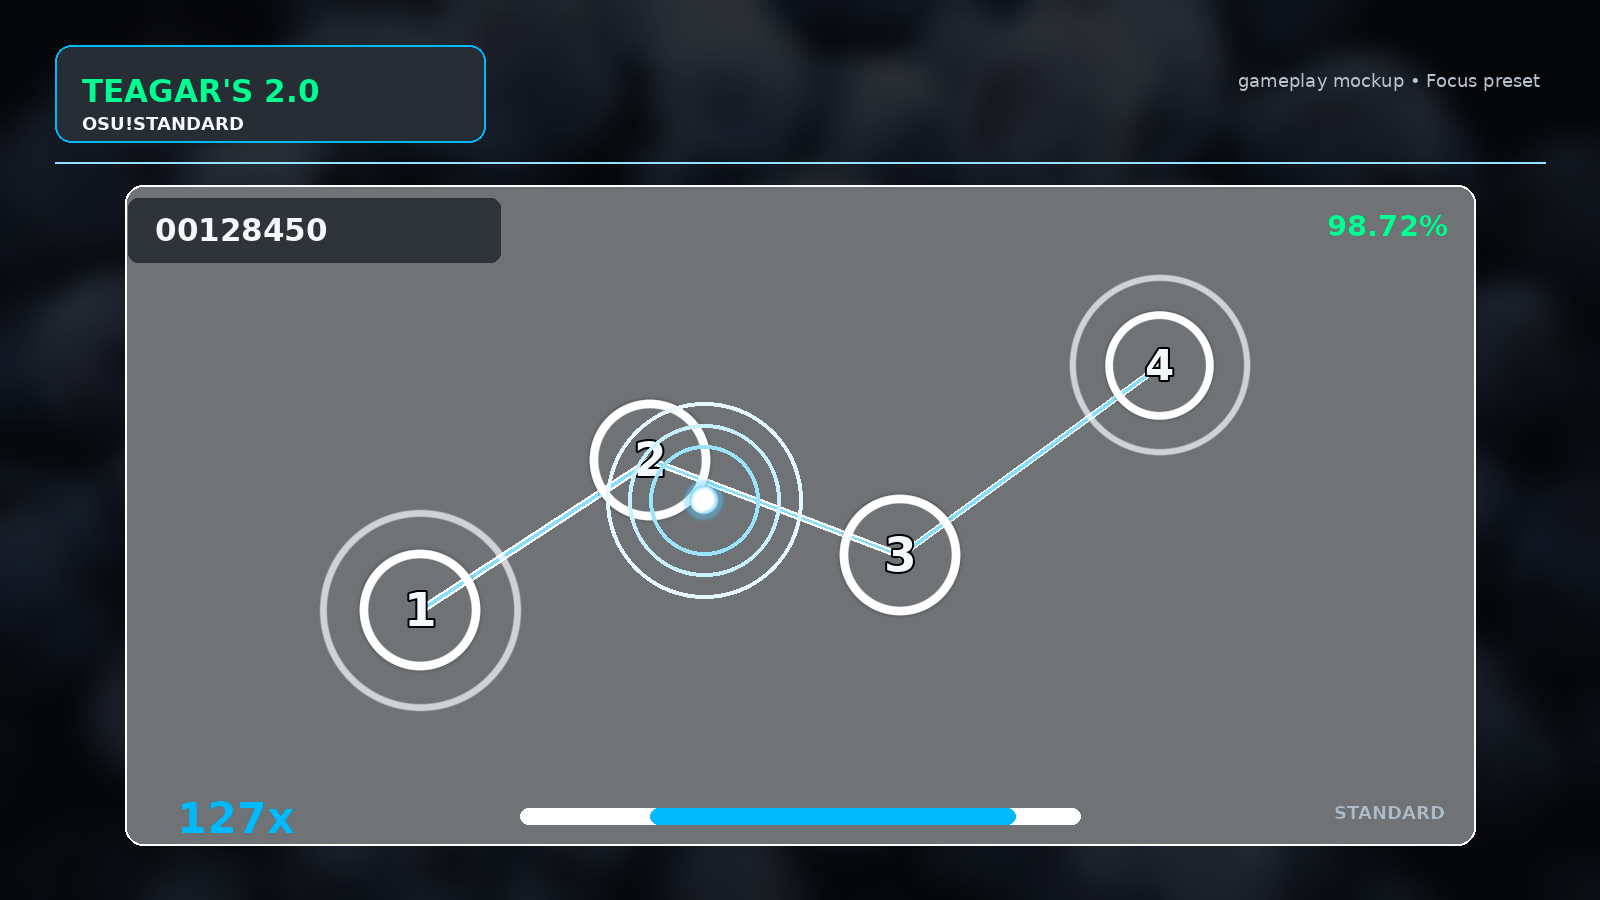
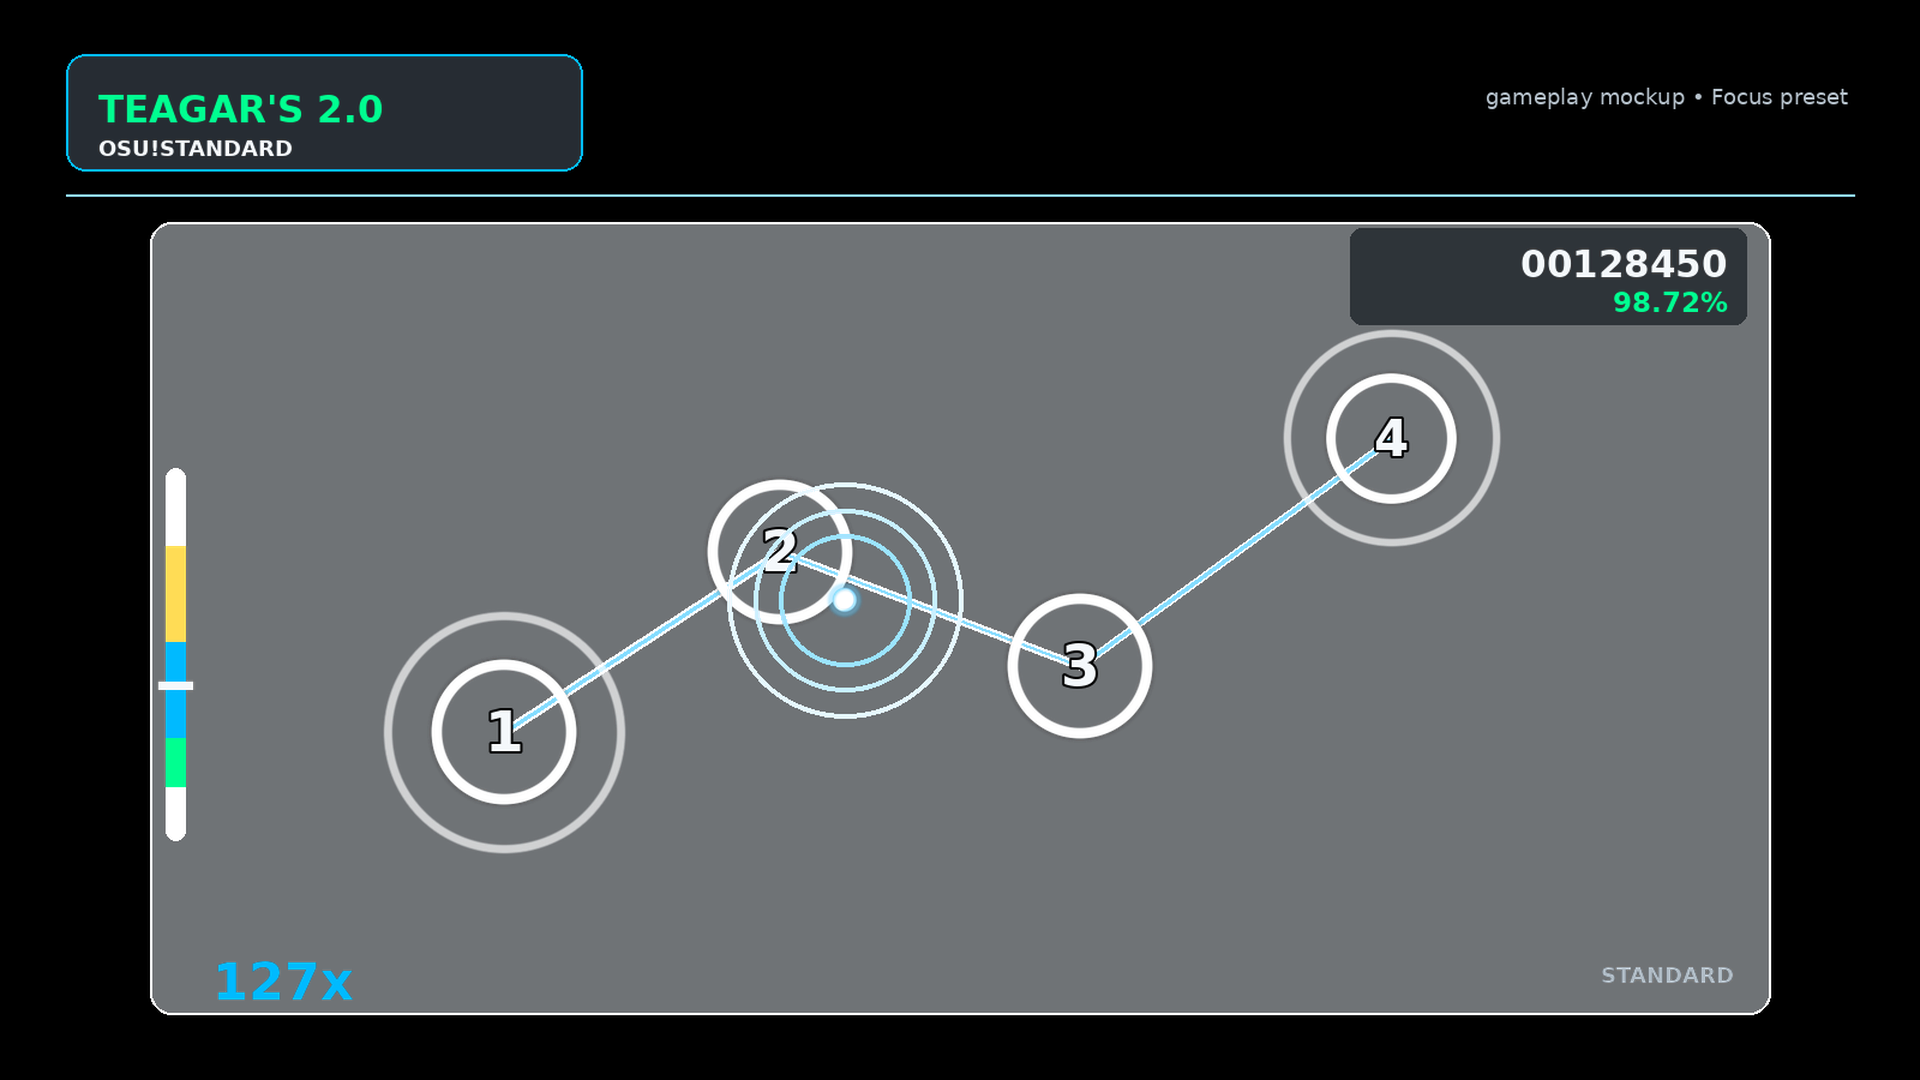
Match showcase to current osu settings

diff --git a/tools/generate_previews.py b/tools/generate_previews.py
@@ -8,6 +8,7 @@ from PIL import Image, ImageDraw, ImageEnhance, ImageFilter, ImageFont
 ROOT = Path(__file__).resolve().parents[1]
 OUT = ROOT / "docs" / "showcase"
 SIZE = (1600, 900)
+OUTPUT_SIZE = (1920, 1080)
 CYAN = "#00baff"
 GREEN = "#00ff90"
 INK = "#071018"
@@ -49,6 +50,11 @@ def paste_center(canvas, image, center):
     canvas.alpha_composite(
         image, (round(center[0] - image.width / 2), round(center[1] - image.height / 2))
     )
+
+
+def save_preview(canvas, filename, **kwargs):
+    """Export at the 1920x1080 resolution used by the current osu! setup."""
+    canvas.resize(OUTPUT_SIZE, Image.Resampling.LANCZOS).save(OUT / filename, **kwargs)
 
 
 def label(draw, text, xy, size, fill=WHITE, anchor="la", bold=False, stroke=0):
@@ -98,7 +104,7 @@ def menu_preview():
     cursor = asset("cursor@2x.png", (94, 94))
     paste_center(canvas, cursor, (1345, 350))
     label(draw, "CUSTOM SKIN", (1515, 820), 20, GREEN, anchor="ra", bold=True)
-    canvas.save(OUT / "menu.png", optimize=True)
+    save_preview(canvas, "menu.png", optimize=True)
 
 
 def hit_object(canvas, center, number, scale=1.0, approach=True):
@@ -120,7 +126,8 @@ def hit_object(canvas, center, number, scale=1.0, approach=True):
 
 
 def gameplay_preview():
-    canvas = background(12, 0.26)
+    # Current gameplay setting uses 100% background dim and no blur.
+    canvas = Image.new("RGBA", SIZE, (0, 0, 0, 255))
     draw = ImageDraw.Draw(canvas)
     draw.rounded_rectangle((125, 185, 1475, 845), 18, fill=(1, 8, 14, 145), outline=(255, 255, 255, 28), width=2)
     header(canvas, "osu!standard", "gameplay mockup • Focus preset")
@@ -132,34 +139,43 @@ def gameplay_preview():
     for i, point in enumerate(points, 1):
         hit_object(canvas, point, i, 1.0 if i < 4 else 0.9, approach=i in (1, 4))
 
-    cursor = asset("cursor@2x.png", (104, 104))
+    # Gameplay cursor size is 0.69 in the current local configuration.
+    cursor = asset("cursor@2x.png", (72, 72))
     paste_center(canvas, cursor, (704, 500))
     for radius, alpha in [(55, 100), (76, 55), (98, 25)]:
         draw.ellipse((704-radius, 500-radius, 704+radius, 500+radius), outline=(0, 186, 255, alpha), width=4)
 
-    draw.rounded_rectangle((128, 198, 500, 262), 10, fill=(1, 8, 14, 210))
-    label(draw, "00128450", (155, 230), 31, WHITE, anchor="lm", bold=True)
-    label(draw, "98.72%", (1448, 226), 29, GREEN, anchor="rm", bold=True)
+    draw.rounded_rectangle((1125, 190, 1455, 270), 10, fill=(1, 8, 14, 210))
+    label(draw, "00128450", (1440, 220), 31, WHITE, anchor="rm", bold=True)
+    label(draw, "98.72%", (1440, 252), 23, GREEN, anchor="rm", bold=True)
     label(draw, "127x", (177, 793), 43, CYAN, bold=True)
-    draw.rounded_rectangle((520, 808, 1080, 824), 8, fill=(255, 255, 255, 40))
-    draw.rounded_rectangle((650, 808, 1015, 824), 8, fill=CYAN)
+    # The exported HUD places the hit-error meter vertically at centre-left.
+    draw.rounded_rectangle((138, 390, 154, 700), 8, fill=(255, 255, 255, 40))
+    draw.rectangle((138, 455, 154, 535), fill="#ffdc55")
+    draw.rectangle((138, 535, 154, 615), fill=CYAN)
+    draw.rectangle((138, 615, 154, 655), fill=GREEN)
+    draw.rectangle((132, 568, 160, 574), fill=WHITE)
     label(draw, "STANDARD", (1445, 802), 18, "#aebac4", anchor="ra", bold=True)
-    canvas.save(OUT / "gameplay-standard.png", optimize=True)
+    save_preview(canvas, "gameplay-standard.png", optimize=True)
 
 
 def mania_preview():
-    canvas = background(12, 0.23)
+    # Current gameplay setting uses 100% background dim and no blur.
+    canvas = Image.new("RGBA", SIZE, (0, 0, 0, 255))
     draw = ImageDraw.Draw(canvas)
     header(canvas, "osu!mania", "4K gameplay mockup • configured for 1–7 keys")
 
-    left, top, right, bottom = 470, 178, 1130, 845
+    # Four 52px legacy columns scale to roughly 468px at 1080p.
+    left, top, right, bottom = 605, 168, 995, 852
     draw.rectangle((left, top, right, bottom), fill=(0, 0, 0, 215), outline=CYAN, width=2)
     lane_width = (right - left) // 4
     for i in range(1, 4):
         x = left + i * lane_width
         draw.line((x, top, x, bottom), fill=(255, 255, 255, 40), width=2)
-    draw.rectangle((left, 785, right, 795), fill=GREEN)
-    draw.rectangle((left, 795, right, bottom), fill=(0, 186, 255, 45))
+    stage = asset("mania-stage-bottom.png").resize((right - left, 54), Image.Resampling.LANCZOS)
+    canvas.alpha_composite(stage, (left, 798))
+    draw.rectangle((left, 825, right, 835), fill=GREEN)
+    draw.rectangle((left, 835, right, bottom), fill=(0, 186, 255, 45))
 
     note_files = ["mania-note1.png", "mania-note2.png", "mania-note2.png", "mania-note1.png"]
     positions = [(0, 350), (1, 265), (2, 490), (3, 315), (1, 610), (3, 665), (0, 560)]
@@ -169,19 +185,18 @@ def mania_preview():
     for lane in range(4):
         key_color = CYAN if lane in (1, 2) else WHITE
         draw.rounded_rectangle(
-            (left + lane * lane_width + 9, 803, left + (lane + 1) * lane_width - 9, 836),
+            (left + lane * lane_width + 9, 836, left + (lane + 1) * lane_width - 9, 849),
             5,
             fill=key_color,
         )
 
-    label(draw, "SCORE", (190, 300), 18, "#aebac4", bold=True)
-    label(draw, "0247186", (190, 338), 43, WHITE, bold=True)
-    label(draw, "COMBO", (190, 450), 18, "#aebac4", bold=True)
-    label(draw, "348x", (190, 493), 48, CYAN, bold=True)
-    label(draw, "300", (1305, 430), 75, GREEN, anchor="mm", bold=True)
-    label(draw, "99.14%", (1305, 505), 28, WHITE, anchor="mm", bold=True)
-    label(draw, "4 KEYS", (1305, 650), 23, CYAN, anchor="mm", bold=True)
-    canvas.save(OUT / "gameplay-mania.png", optimize=True)
+    # Global score and accuracy counters are anchored at the top-right.
+    label(draw, "0247186", (1445, 225), 42, WHITE, anchor="ra", bold=True)
+    label(draw, "99.14%", (1445, 276), 25, GREEN, anchor="ra", bold=True)
+    label(draw, "348x", (800, 425), 44, CYAN, anchor="mm", bold=True)
+    label(draw, "300", (800, 650), 64, GREEN, anchor="mm", bold=True)
+    label(draw, "4 KEYS", (1445, 802), 18, "#aebac4", anchor="ra", bold=True)
+    save_preview(canvas, "gameplay-mania.png", optimize=True)
 
 
 def results_preview():
@@ -207,7 +222,7 @@ def results_preview():
         y = 395 + (index // 2) * 105
         label(draw, name, (x, y), 18, colour, bold=True)
         label(draw, value, (x + 175, y + 2), 34, WHITE, anchor="rm", bold=True)
-    canvas.save(OUT / "results.png", optimize=True)
+    save_preview(canvas, "results.png", optimize=True)
 
 
 def overview():
@@ -215,8 +230,8 @@ def overview():
     draw = ImageDraw.Draw(canvas)
     previews = [
         ("menu.png", "MENU"),
-        ("gameplay-standard.png", "OSU!STANDARD"),
         ("gameplay-mania.png", "OSU!MANIA"),
+        ("gameplay-standard.png", "OSU!STANDARD"),
         ("results.png", "RESULTS"),
     ]
     for index, (filename, title) in enumerate(previews):
@@ -226,7 +241,7 @@ def overview():
         canvas.paste(image, (x, y))
         draw.rectangle((x, y + 382, x + 770, y + 433), fill=(2, 9, 15))
         label(draw, title, (x + 24, y + 408), 19, GREEN if index % 2 == 0 else CYAN, anchor="lm", bold=True)
-    canvas.save(OUT / "overview.jpg", quality=91, optimize=True)
+    save_preview(canvas, "overview.jpg", quality=91, optimize=True)
 
 
 def main():

diff --git a/README.md b/README.md
@@ -8,13 +8,24 @@ My personal custom skin for [osu!](https://osu.ppy.sh/), with assets and configu
 
 The images below are presentation mockups composed from the actual assets included in the skin.
 
-| Main menu | osu!standard |
+| Main menu | osu!mania |
 |:---:|:---:|
-| ![Main menu preview](docs/showcase/menu.png) | ![osu!standard gameplay preview](docs/showcase/gameplay-standard.png) |
+| ![Main menu preview](docs/showcase/menu.png) | ![osu!mania gameplay preview](docs/showcase/gameplay-mania.png) |
 
-| osu!mania | Results |
+| osu!standard | Results |
 |:---:|:---:|
-| ![osu!mania gameplay preview](docs/showcase/gameplay-mania.png) | ![Results screen preview](docs/showcase/results.png) |
+| ![osu!standard gameplay preview](docs/showcase/gameplay-standard.png) | ![Results screen preview](docs/showcase/results.png) |
+
+### Visual profile reproduced
+
+The gameplay mockups follow the current local osu!lazer visual configuration:
+
+- 1920×1080 fullscreen display at approximately 144 Hz
+- osu!mania as the selected ruleset
+- 100% gameplay background dim with no blur
+- HUD always visible, with score and accuracy at the top-right
+- Gameplay leaderboard and key overlay disabled
+- 0.69 gameplay cursor size in osu!standard
 
 ## Installation
 
